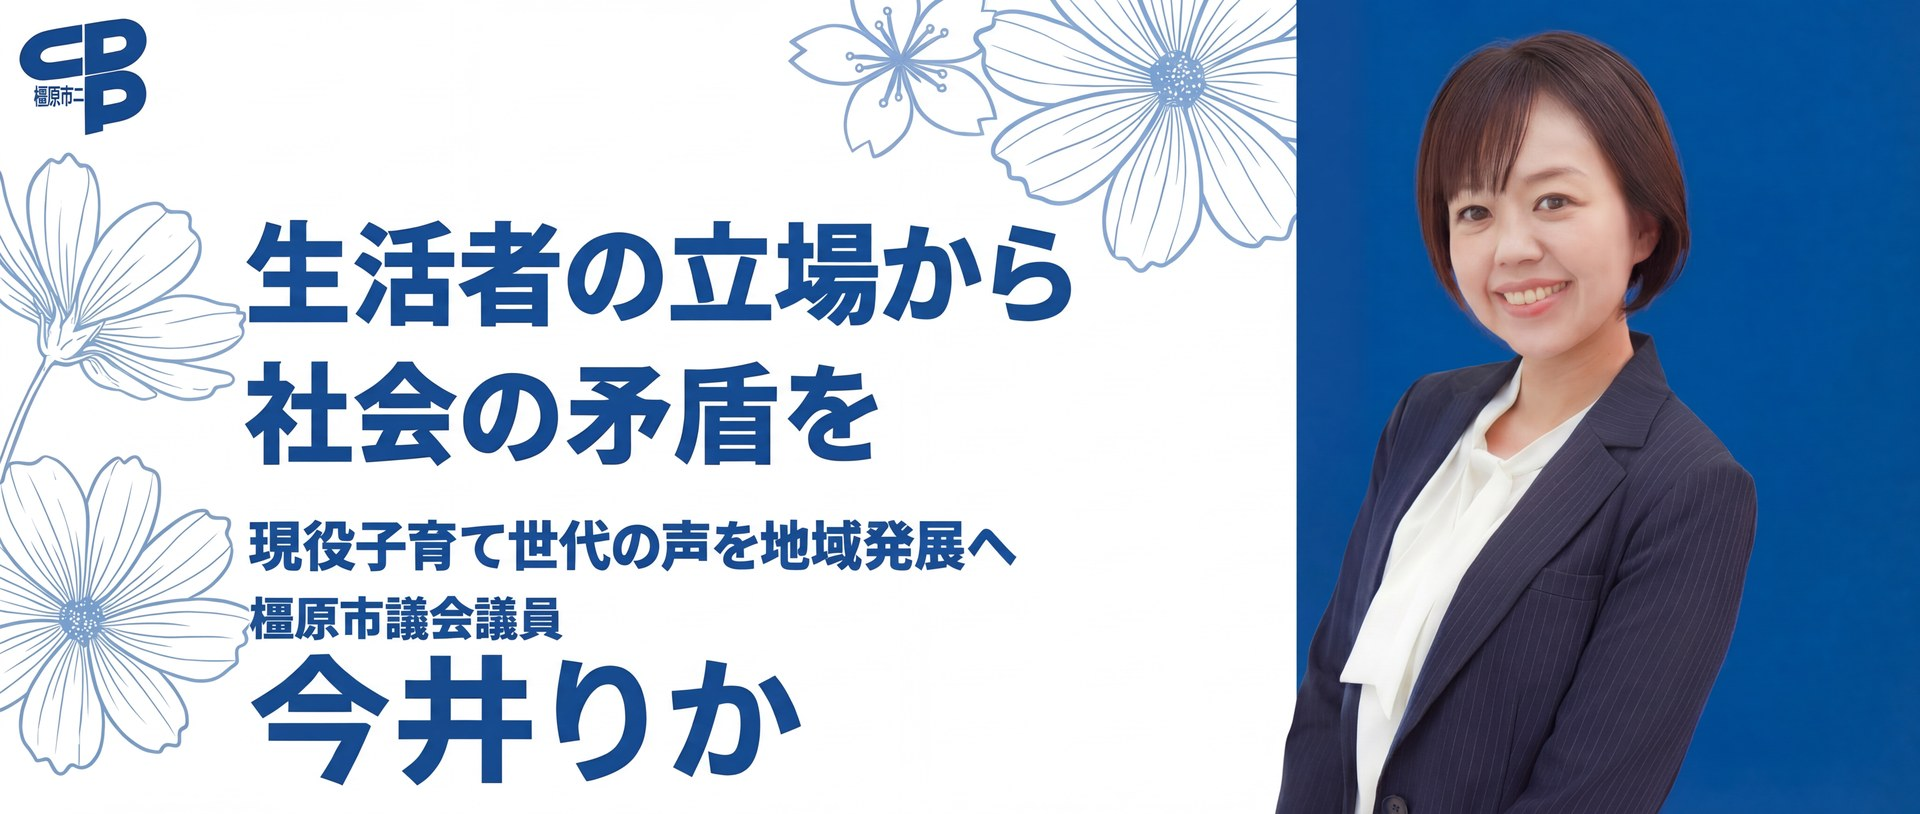
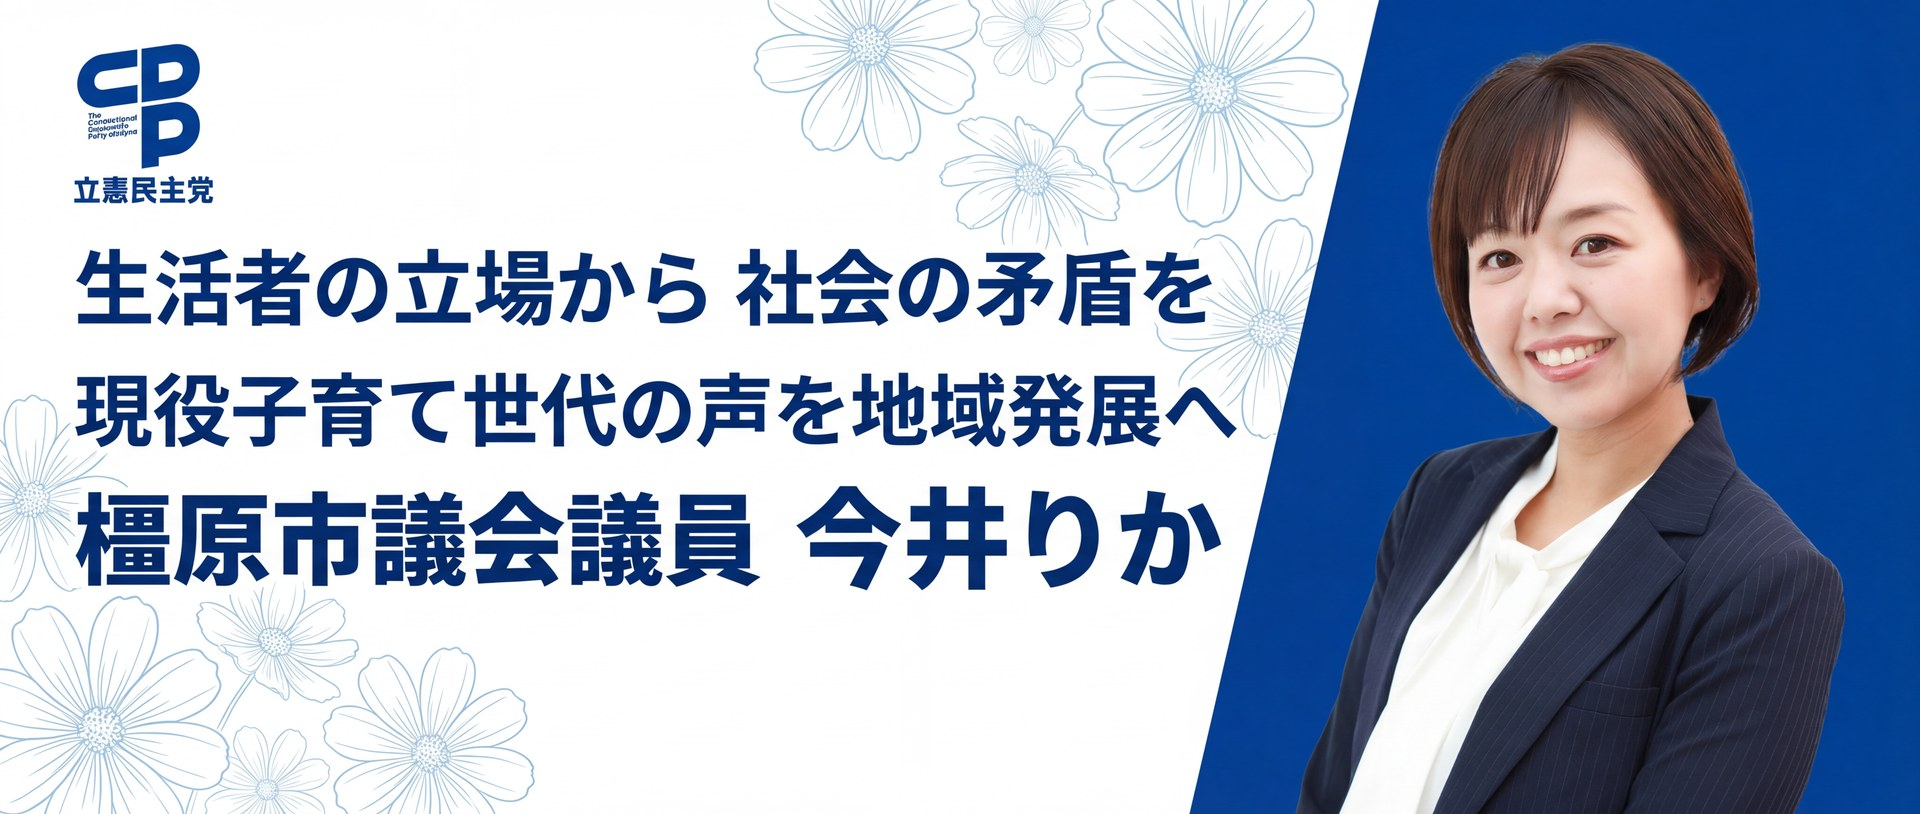
fix: CDPパターン文字を小さく + FV画像を完成版v2に差し替え
- バナーカードのCDPパターン: 20/28px → 11/14px（より細かい模様に）
- FV PC画像: 橿原市議バナー完成版v2.png → 1920×814 JPEG q88

Made-with: Cursor

diff --git a/src/components/home/HomeBannerCards.tsx b/src/components/home/HomeBannerCards.tsx
@@ -46,7 +46,7 @@ export default function HomeBannerCards() {
           >
             <span
               aria-hidden
-              className="pointer-events-none absolute -inset-2 rotate-[-15deg] break-all font-en text-[20px] font-black leading-snug tracking-wide text-white/[0.08] md:text-[28px]"
+              className="pointer-events-none absolute -inset-2 rotate-[-15deg] break-all font-en text-[11px] font-black leading-tight tracking-[0.15em] text-white/[0.06] md:text-[14px]"
             >
               CDP CDP CDP CDP CDP CDP CDP CDP CDP CDP CDP CDP CDP CDP CDP CDP
             </span>
